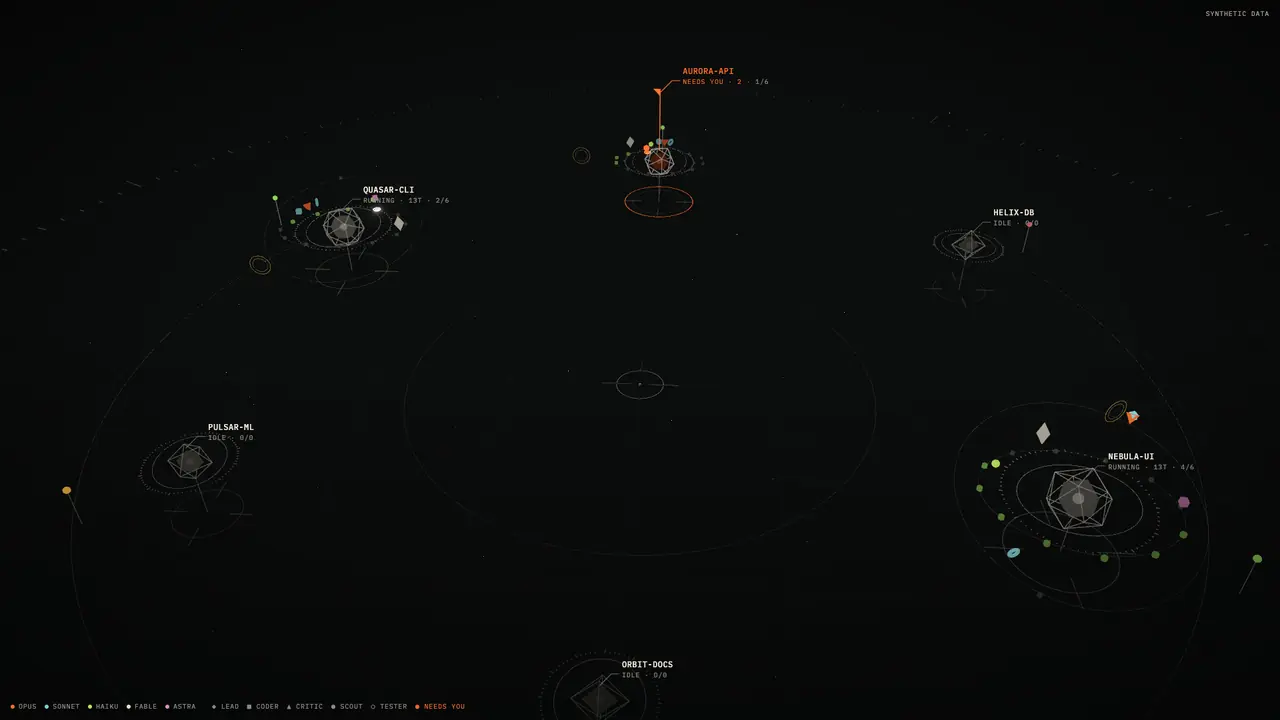
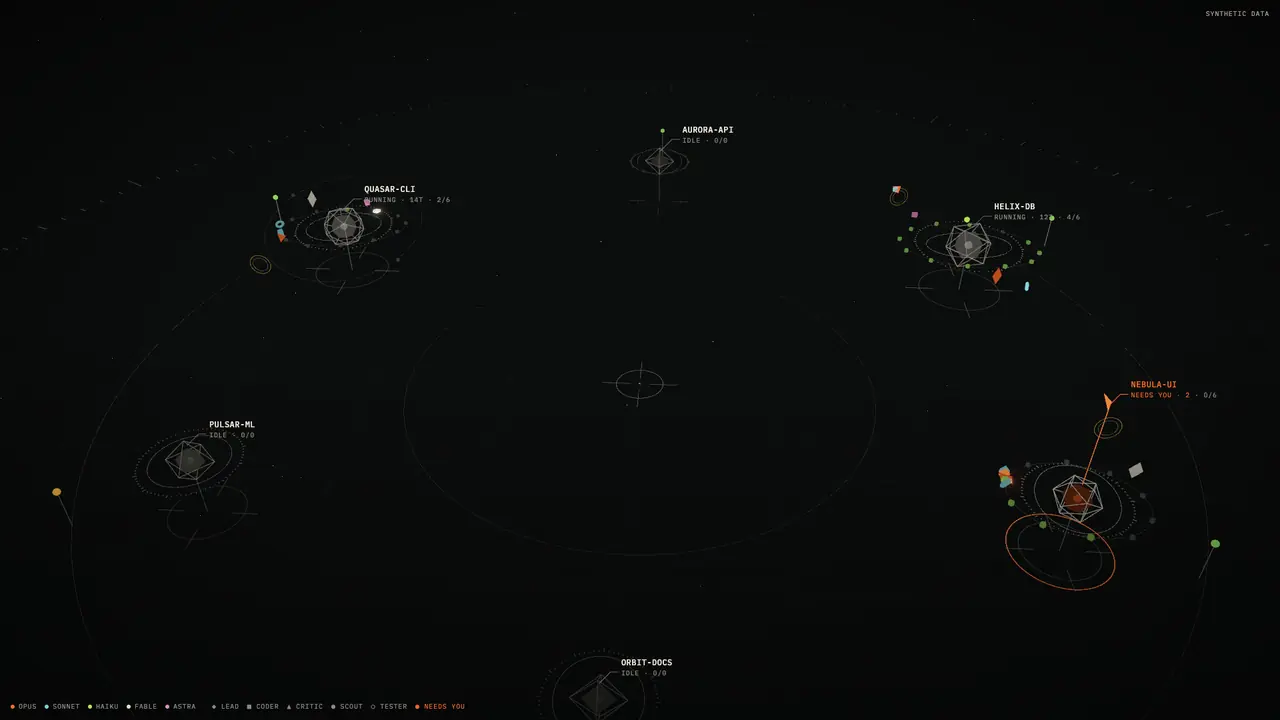
feat(site): render from createDemoWorld, DST-correct zone labels, honest spend beat, regenerated posters

diff --git a/apps/site/components/LocalTime.tsx b/apps/site/components/LocalTime.tsx
@@ -3,20 +3,22 @@
 // HTML is correct without script), then switch to the visitor's local time after hydration, keeping the
 // UTC reading in the tooltip.
 import { useEffect, useRef, useState } from 'react';
+import { formatLocalTime, formatUtcTime } from '@fleet/shared';
 
 type Style = 'time' | 'date' | 'day-time';
 
-const OPTS: Record<Style, Intl.DateTimeFormatOptions> = {
-  time: { hour: '2-digit', minute: '2-digit', hourCycle: 'h23' },
+const OPTS: Record<Exclude<Style, 'time'>, Intl.DateTimeFormatOptions> = {
   date: { weekday: 'long', day: 'numeric', month: 'long' },
   'day-time': { day: 'numeric', month: 'short', hour: '2-digit', minute: '2-digit', hourCycle: 'h23' },
 };
 
 export function formatAt(at: number, style: Style, timeZone?: string): string {
+  // Clock times are the app's own format (formatLocalTime), so site and app read the same.
+  if (style === 'time') return formatLocalTime(at, timeZone ? { timeZone } : {});
   return new Intl.DateTimeFormat('en-GB', { ...OPTS[style], timeZone }).format(at);
 }
 
-const utcTitle = (at: number) => `${new Date(at).toISOString().slice(0, 16).replace('T', ' ')} UTC`;
+const utcTitle = formatUtcTime;
 
 /** One timestamp: UTC in the HTML, local after hydration, UTC in the title. */
 export function LocalTime({
@@ -37,9 +39,10 @@ export function LocalTime({
   );
 }
 
-const zoneName = () =>
+/** The visitor's zone label at `at` (not today): an October window reads GMT-4 in New York even in winter. */
+const zoneName = (at: number) =>
   new Intl.DateTimeFormat('en-GB', { timeZoneName: 'short' })
-    .formatToParts(Date.now())
+    .formatToParts(at)
     .find((p) => p.type === 'timeZoneName')?.value ?? 'local';
 
 /**
@@ -72,7 +75,9 @@ export function LocalizeTimes({
       );
       if (line && Number.isFinite(since) && Number.isFinite(until)) {
         line.title = `${utcTitle(since)} to ${utcTitle(until)}`;
-        line.textContent = `${formatAt(since, 'day-time')} → ${formatAt(until, 'day-time')} (${zoneName()})`;
+        // A window across a DST change names both offsets.
+        const zones = [...new Set([zoneName(since), zoneName(until)])].join(' → ');
+        line.textContent = `${formatAt(since, 'day-time')} → ${formatAt(until, 'day-time')} (${zones})`;
       }
     }
   }, [win]);

diff --git a/apps/site/lib/demo.ts b/apps/site/lib/demo.ts
@@ -1,8 +1,8 @@
 // Build-time synthetic fleet for the static UI previews. Deterministic: the site's one world (lib/world.mjs,
 // chosen by scripts/prebuild.mjs), the same seed and clock as the hero scene, spend beat and digest.
-// Uses createDemoFleet from @fleet/shared only. Never reads ~/.claude or any real data.
-import { createDemoFleet, estimateCostUsd } from '@fleet/shared';
-import type { AlertKind, FleetSnapshot, ModelFamily } from '@fleet/shared';
+// Uses createDemoWorld from @fleet/shared only. Never reads ~/.claude or any real data.
+import { createDemoWorld, estimateCostUsd } from '@fleet/shared';
+import type { AlertKind, DemoDigest, FleetSnapshot, ModelFamily } from '@fleet/shared';
 import { openWorld } from './world.mjs';
 import world from './world.generated.json';
 
@@ -116,9 +116,8 @@ let night: ReplayTape | null = null;
 
 export function demoPreview(): DemoPreview {
   if (cached) return cached;
-  const fleet = openWorld(createDemoFleet, world);
-  const snapshot = fleet.snapshot();
-  night = tapeOf(fleet.overnight(NIGHT_HOURS), snapshot);
+  const { snapshot, digest } = openWorld(createDemoWorld, world);
+  night = tapeOf(digest, snapshot);
   const name = new Map(snapshot.projects.map((p) => [p.id, p.name]));
   const now = snapshot.generatedAt;
   const signals: Signal[] = snapshot.alerts
@@ -164,9 +163,6 @@ export function demoPreview(): DemoPreview {
   return cached;
 }
 
-/** Hours on the replay tape: the app's demo night (packages/web DEMO_NIGHT_HOURS). */
-const NIGHT_HOURS = 8;
-
 export interface TapeMark {
   /** 0..1 along the tape */
   x: number;
@@ -180,10 +176,7 @@ export interface ReplayTape {
 }
 
 /** The world's last hours as replay tracks: one per project, marks where things happened, the open wait. */
-function tapeOf(
-  d: ReturnType<ReturnType<typeof createDemoFleet>['overnight']>,
-  snap: FleetSnapshot,
-): ReplayTape {
+function tapeOf(d: DemoDigest, snap: FleetSnapshot): ReplayTape {
   const since = Date.parse(d.window.since);
   const until = Date.parse(d.window.until);
   const x = (iso: string | number) => {

diff --git a/apps/site/island/entry.tsx b/apps/site/island/entry.tsx
@@ -7,12 +7,12 @@ import { createRoot } from 'react-dom/client';
 import { createDemoFleet } from '@fleet/shared';
 import type { DemoFleet, FleetEvent, FleetSnapshot } from '@fleet/shared';
 import FleetScene from '@fleet/web/src/viz/FleetScene';
-import { advanceWorld } from '../lib/world.mjs';
+import { openFleet } from '../lib/world.mjs';
 import type { FleetView, ReplayControls, Selection } from '@fleet/web/src/data/contract';
 
 export interface MountOptions {
-  /** the site's world (lib/world.generated.json): seed, start clock and steps; wins over `seed` */
-  world?: { seed: number; start: number; steps: number };
+  /** the site's world (lib/world.generated.json): seed and clock; wins over `seed` */
+  world?: { seed: number; now: number };
   seed?: number;
   projects?: number;
   /** /demo: add the keyboard index of stations and agents next to the canvas */
@@ -168,9 +168,7 @@ function FleetIndex({
 
 function Island({ world, seed, projects, interactive, onReady }: MountOptions) {
   const [fleet] = useState(() =>
-    world
-      ? advanceWorld(createDemoFleet({ seed: world.seed, now: world.start, projects }), world.steps)
-      : createDemoFleet({ seed, projects }),
+    world ? openFleet(createDemoFleet, world) : createDemoFleet({ seed, projects }),
   );
   const view = useDemoView(fleet);
   const [selection, setSelection] = useState<Selection>(null);

diff --git a/apps/site/components/Optional.tsx b/apps/site/components/Optional.tsx
@@ -68,7 +68,10 @@ const usd = (n: number) =>
 const usdWhole = (n: number) =>
   n.toLocaleString('en-US', { style: 'currency', currency: 'USD', maximumFractionDigits: 0 });
 
-/** One beat on spend: fleet-spend's own example month, its forecast and the budget line it crosses. */
+/**
+ * One beat on spend: the demo world's month, its forecast and the budget. The verdict line is computed from
+ * those numbers, so the copy stays true whether the forecast lands under the budget or passes it.
+ */
 export function SpendSection() {
   if (!spendBeat) return null;
   const s = spendBeat;
@@ -113,6 +116,13 @@ export function SpendSection() {
               </div>
             ) : null}
           </div>
+          {s.budgetUsd !== null ? (
+            <p className="spend-verdict">
+              {over
+                ? `On pace to pass the budget by ${usdWhole(s.forecastMonthEndUsd - s.budgetUsd)}. The chart marks the day it crosses.`
+                : `On pace to finish ${usdWhole(s.budgetUsd - s.forecastMonthEndUsd)} under budget.`}
+            </p>
+          ) : null}
           <SpendChart beat={s} />
           <figcaption className="caption mono">
             The demo fleet&apos;s month, as the app&apos;s Spend tab shows it in demo mode. Not a real

diff --git a/apps/site/app/globals.css b/apps/site/app/globals.css
@@ -1918,6 +1918,11 @@ main {
 .spend-n-hot {
   color: var(--fl-warn);
 }
+.spend-verdict {
+  margin: var(--fl-space-4) 0 0;
+  color: var(--fl-fg-muted);
+  font-size: var(--fl-text-sm);
+}
 .spend-chart {
   position: relative;
   height: 220px;
@@ -2688,6 +2693,24 @@ main {
 }
 .math-alt-row[data-current] span:first-child {
   color: var(--fl-fg);
+}
+
+/* Beside the taller phone panel, the cost panel fills its row: the worked sum stays on top and the model
+   comparison settles at the bottom edge, level with the phone, instead of leaving a blank strip under it. */
+@media (min-width: 1024px) {
+  .depth > .panel > .math {
+    flex: 1;
+    display: flex;
+    flex-direction: column;
+  }
+  .depth > .panel > .math > .math-alt {
+    margin-top: auto;
+    gap: var(--fl-space-3);
+  }
+  /* The lock screen holds one notification per incident; a shorter screen keeps the row from towering. */
+  .depth .phone-screen {
+    min-height: 420px;
+  }
 }
 
 /* ---- inner page head with a right-hand aside (features index) ---- */

diff --git a/apps/site/components/FleetStage.tsx b/apps/site/components/FleetStage.tsx
@@ -7,7 +7,7 @@ interface Island {
   mount(
     el: HTMLElement,
     opts: {
-      world?: { seed: number; start: number; steps: number };
+      world?: { seed: number; now: number };
       interactive?: boolean;
       onReady?: () => void;
     },
@@ -135,7 +135,7 @@ function trackSignal(stage: HTMLElement, frame: HTMLElement, host: HTMLElement):
 /**
  * The real Fleet visualizer over a poster. The poster is a still render of the same scene.
  * Reduced motion, Save-Data or no WebGL keep the poster. The island (public/island/fleet-scene.js)
- * is the FleetScene from packages/web driven by createDemoFleet: synthetic data, no network, the site's
+ * is the FleetScene from packages/web driven by the site's createDemoWorld fleet: synthetic data, no network, the site's
  * one world (lib/world.mjs). With `signal` (the home hero), a beacon rises from the waiting station and
  * phones frame that station; both come from the poster's recorded anchor first, then the live scene.
  */
